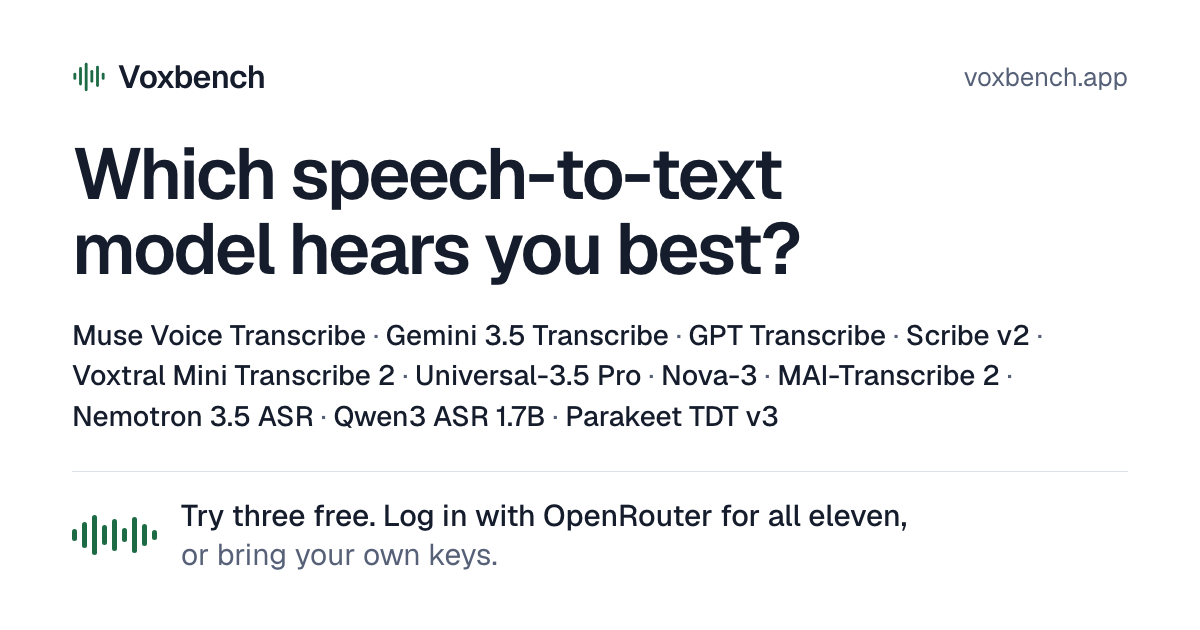
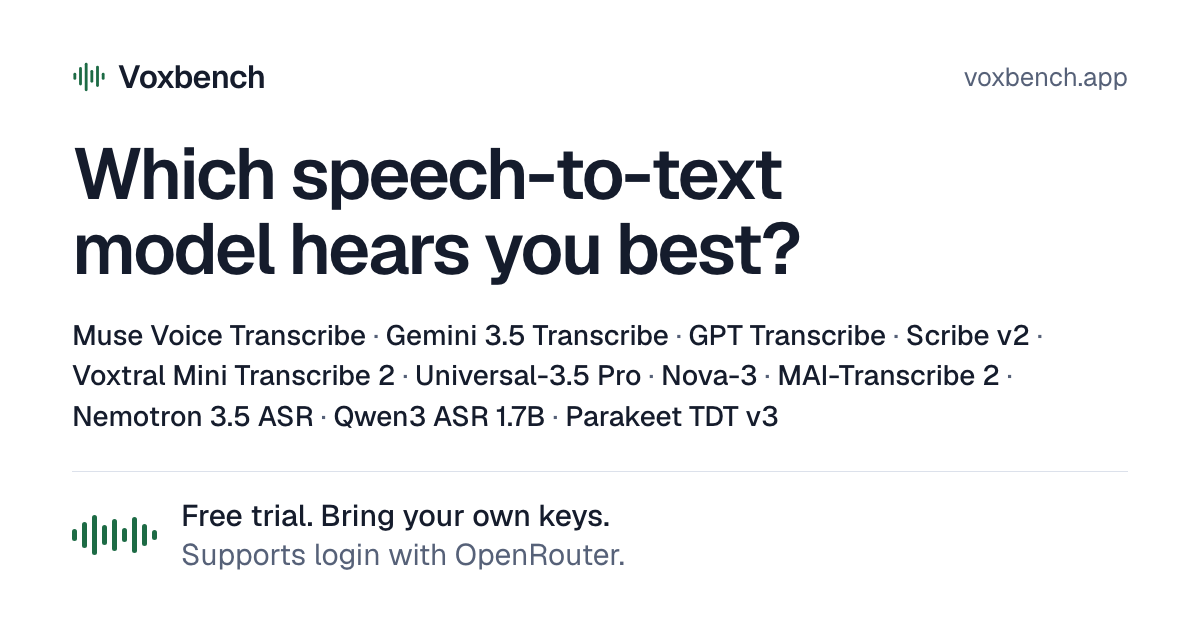
Drop model counts from trial and OpenRouter copy

Changed region(s): [[0.1542, 0.7841, 0.7708, 0.9048]]

diff --git a/app/layout.tsx b/app/layout.tsx
@@ -15,7 +15,7 @@ const geistMono = Geist_Mono({
 });
 
 const description =
-  'Record a take and read 11 speech-to-text transcripts side by side. Try three free, or log in with OpenRouter for all eleven.';
+  'Record a take and read 11 speech-to-text transcripts side by side. Free trial, bring your own keys, or log in with OpenRouter.';
 export const metadata: Metadata = {
   metadataBase: new URL('https://voxbench.app'),
   title: 'Voxbench — which speech-to-text model hears you best?',
@@ -31,7 +31,7 @@ export const metadata: Metadata = {
         url: '/og.png',
         width: 1200,
         height: 630,
-        alt: 'Voxbench: which speech-to-text model hears you best? Eleven models, three free to try, log in with OpenRouter for all.',
+        alt: 'Voxbench: which speech-to-text model hears you best? Eleven models. Free trial, bring your own keys, or log in with OpenRouter.',
       },
     ],
   },

diff --git a/scripts/og.html b/scripts/og.html
@@ -40,7 +40,7 @@
     <div class="wave">
       <i style="height:12px"></i><i style="height:26px"></i><i style="height:40px"></i><i style="height:20px"></i><i style="height:32px"></i><i style="height:14px"></i><i style="height:36px"></i><i style="height:22px"></i><i style="height:10px"></i>
     </div>
-    <div class="tag">Try three free. Log in with OpenRouter for all eleven,<br><span>or bring your own keys.</span></div>
+    <div class="tag">Free trial. Bring your own keys.<br><span>Supports login with OpenRouter.</span></div>
   </div>
 </div>
 </body>

diff --git a/app/page.tsx b/app/page.tsx
@@ -674,8 +674,8 @@ export default function Home() {
         <div>
           <h1>Which speech-to-text model hears you best?</h1>
           <p>
-            Record a take and read 11 transcripts side by side. Try three free,
-            run all eleven with your own keys.
+            Record a take and read 11 transcripts side by side. Free trial, your
+            own keys, or log in with OpenRouter.
           </p>
         </div>
       </section>
